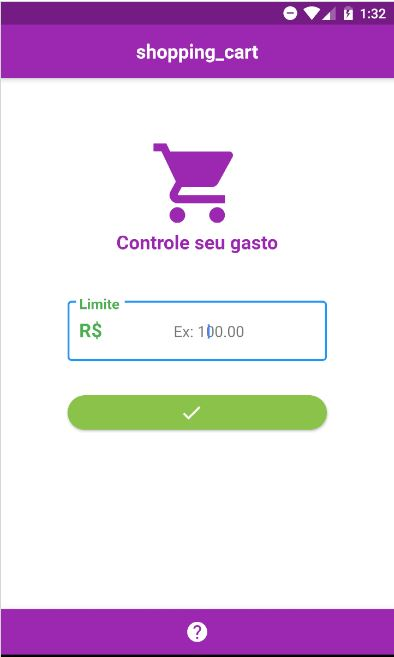
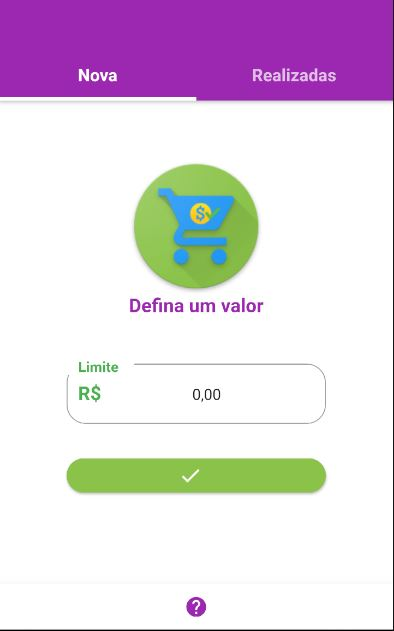
Novo Layout

diff --git a/lib/Home.dart b/lib/Home.dart
@@ -54,7 +54,7 @@ class _HomeState extends State<Home> with SingleTickerProviderStateMixin {
                   indicatorColor: Colors.white,
                   tabs: <Widget>[
                           Tab(text: "Nova"), 
-                          Tab(text: "Recentes")
+                          Tab(text: "Realizadas")
                   ],
                 
                 )
